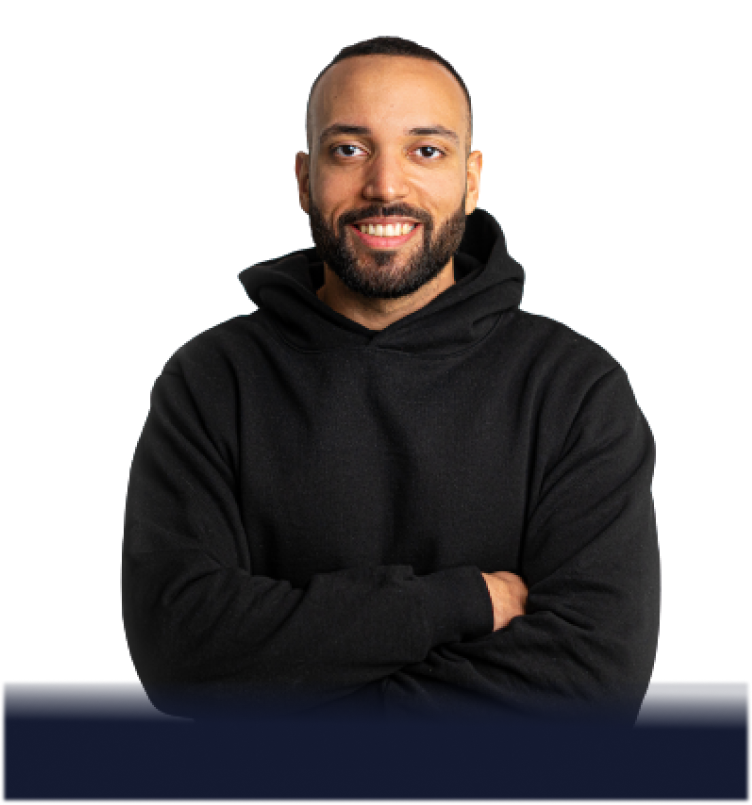
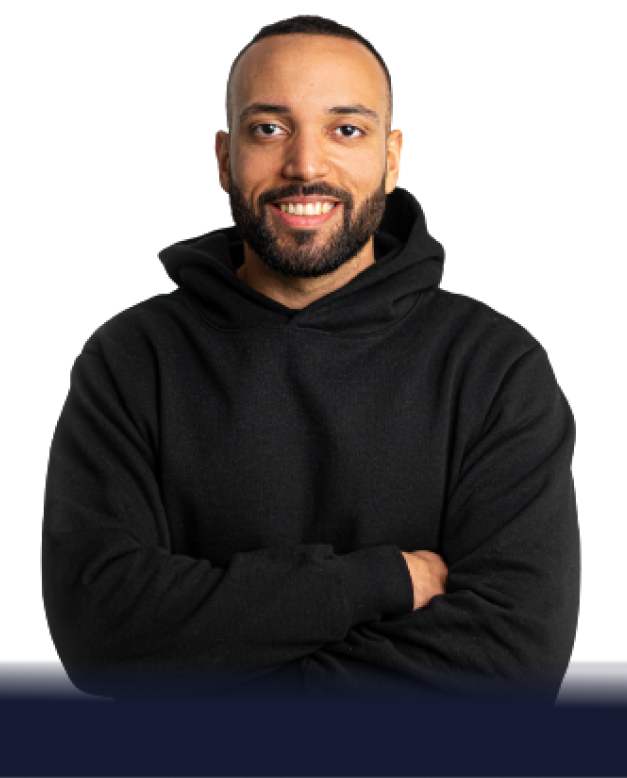
reviewing padding

diff --git a/components/ui/Homepage/PartnersBox.js b/components/ui/Homepage/PartnersBox.js
@@ -7,14 +7,13 @@ import continental from "../../../public/logos/continental-grey.svg";
 export default function PartnersBox() {
   return (
     <section className={classes["section--partners"]}>
-
       <div className="container">
-        <h2 className={classes["featured-title"]}>
-        At Agency side, Client side or as Freelancer
+        <h2 className="heading-secondary">
+          At Agency side, Client side or as Freelancer
         </h2>
 
         <div className={classes["partners-logos-box"]}>
-        <Image
+          <Image
             className={`${classes["partner-logo"]} ${classes["continental"]}`}
             src="/logos/continental-grey.svg"
             width={184.61}
@@ -102,11 +101,8 @@ export default function PartnersBox() {
             // blurDataURL="data:..." automatically provided
             // placeholder="blur" // Optional blur-up while loading
           />
-
-
         </div>
       </div>
-
     </section>
-  )
+  );
 }

diff --git a/components/layout/FooterCta.js b/components/layout/FooterCta.js
@@ -9,6 +9,26 @@ function Footer(props) {
   return (
     <React.Fragment>
       <section className={classes["section--footer"]}>
+        <div className={classes["cta-container"]}>
+          <div className={classes["cta-banner"]}>
+            <div className={classes["cta-text-box"]}>
+              <h3>Get in Touch</h3>
+              <p>
+                Whether you are in need of a Developer, have a question or just
+                want to say hi, <br /> I’ll be glad to discuss with you!
+              </p>
+            </div>
+            <div className={classes["cta-text-box"]}>
+              <Link
+                className="btn-dark btn"
+                href="mailto:marving.moreton@gmail.com"
+                target="_blank"
+              >
+                Say Hello!
+              </Link>
+            </div>
+          </div>
+        </div>
         <div>
           <ul className={classes["footer-nav"]}>
             <li>

diff --git a/components/layout/FooterCta.module.css b/components/layout/FooterCta.module.css
@@ -5,8 +5,8 @@
 .section--footer {
   background: #1f2235;
   position: relative;
-  padding: 1.6rem 0 0rem 0;
-  margin-top: 9.6rem;
+  padding-top: 20rem;
+  margin-top: 20rem;
 }
 .footer-nav {
   list-style: none;

diff --git a/components/ui/Homepage/HeroHome.module.css b/components/ui/Homepage/HeroHome.module.css
@@ -1,7 +1,7 @@
 .section--hero {
   /* min-height: calc(300px + 15vw); */
 
-  padding: 4.9rem 0 6.8rem 0;
+  padding: 4.9rem 0 0rem 0;
   max-width: 120rem;
   margin: 0 auto;
   /* margin-top: 5rem; */

diff --git a/styles/globals.css b/styles/globals.css
@@ -142,7 +142,7 @@ strong {
   text-align: center;
   font-size: 3.4rem;
   line-height: 1.2;
-  margin-bottom: 8rem;
+  margin-bottom: 3.2rem;
 }
 
 .btn-orange,

diff --git a/components/ui/Homepage/PartnersBox.module.css b/components/ui/Homepage/PartnersBox.module.css
@@ -1,5 +1,5 @@
 .section--partners {
-  padding: 4.8rem 0 3.2rem 0;
+  padding: 3.2rem 0 9.6rem 0;
 }
 
 .featured-title {
